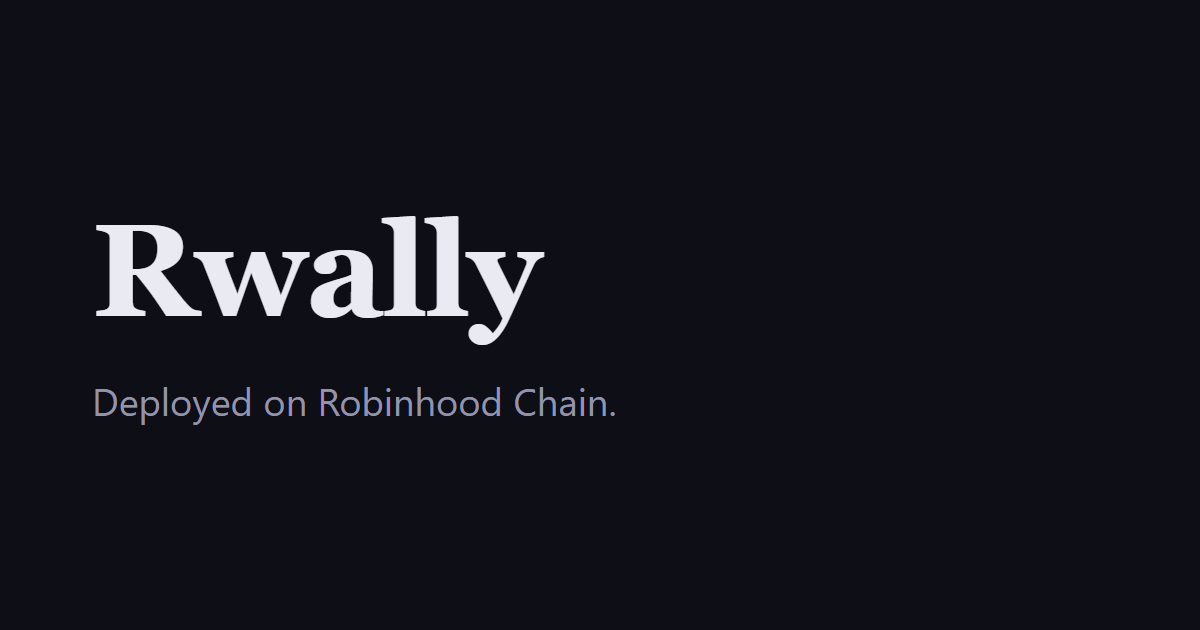
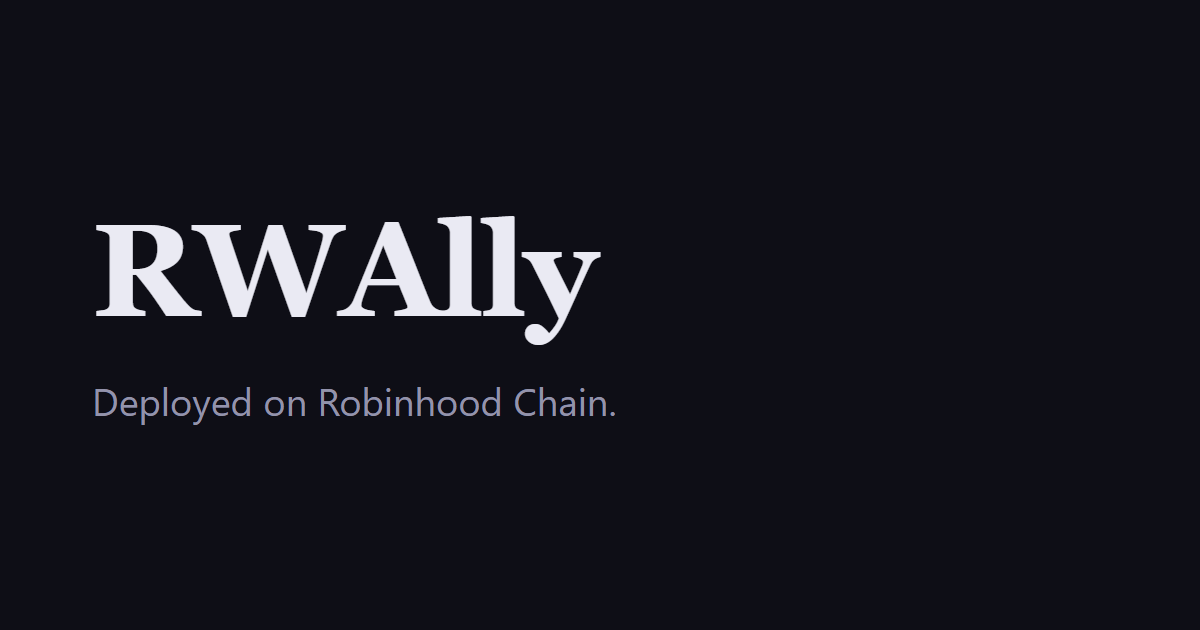
site: the social card carries RWAlly, and the alt text stops describing the wrong image
The card is the one surface the rename could not reach by editing a string: its wordmark is
drawn into pixels, and no claims guard can read a PNG. That is what scripts/build-og-card.mjs
was written for, so this is one constant, one command, and the alt attributes moving in the
same commit as the bytes they describe.

WORDMARK flips to RWAlly. STRAPLINE is untouched at "Deployed on Robinhood Chain." The
generator's own docstring argues at length for why that line carries no date and no address,
and none of that reasoning changed today. The card renders at 1200x630, verified against the
IHDR before it overwrote the committed asset, and the retired digest is APPENDED to
RETIRED_OG_CARDS rather than replacing a row, so all three previous cards stay caught.

THE TWO SURFACES HAVE TWO DIFFERENT CARDS, AND ONE ALT WAS DESCRIBING THE WRONG ONE.
apps/site-next/index.html and disclaimers.html carried a comment saying their alt kept the
old spelling deliberately, because recasing it ahead of a re-render would make it false. The
reasoning was right and the premise was wrong: that origin has served its own og-card.png
since the redesign landed, and that card draws the brand's comic wordmark rather than set
text. So the string was false in a larger way than its casing, and it now describes the image
a reader is actually shown. The nine attributes under apps/site describe the generator's
two-line card and stay a different string on purpose; keeping the two identical is what put
[…]

Changed region(s): [[0.1542, 0.3317, 0.4933, 0.5429]]

diff --git a/apps/site-next/index.html b/apps/site-next/index.html
@@ -33,14 +33,17 @@
 <meta property="og:title" content="An index that only moves when the hive agrees.">
 <meta property="og:description" content="RWAlly is the AI agent trading index on Robinhood Chain: an index decided by a hive of agents, not by a committee. Seven immutable contracts are on chain id 4663, no proxy, no upgrade path, no pause, no admin key. RWLY is live at 0x2eed8ae78AE1aa6824e1C378F46d5C51b6B7FDF9 with a fixed supply of 1,000,000,000; the index vault, the hourly vote and RWLY staking are design intent and not built.">
 <meta property="og:image" content="https://rwally.com/og-card.png">
-<!-- THIS ALT STILL SAYS Rwally, AND THAT IS DELIBERATE. The card it describes is a raster,
-     og-card.png, with the old spelling rendered into its pixels. Alt text has to describe the
-     image a reader is shown, so recasing this string without re-rendering the card would make it
-     literally false. The generator is scripts/build-og-card.mjs and it writes the corpus copy at
-     apps/site/assets/og-card.png, whose eight sibling alt attributes live on pages this change is
-     scoped out of; re-rendering is therefore its own commit. Until then this one string keeps the
-     old spelling on purpose. -->
-<meta property="og:image:alt" content="A plain dark card carrying two lines of text and nothing else: the wordmark Rwally, and the deployment-status line Deployed on Robinhood Chain.">
+<!-- THIS ALT DESCRIBES public/og-card.png, WHICH IS NOT THE CARD scripts/build-og-card.mjs
+     WRITES. The comment this replaces held the old spelling back on the reasoning that the card
+     was the plain two-line raster that generator renders, and that recasing the string ahead of a
+     re-render would make it false. The reasoning was right and the premise was wrong: this origin
+     has served its own card since the redesign landed, and that card draws the brand's comic
+     wordmark, cream lettering over a violet drop shadow, not set text. So the string was false in
+     a larger way than its casing, and it is rewritten to describe the image a reader is actually
+     shown. The nine alt attributes under apps/site describe the generator's card and are a
+     different string on purpose: two cards, two descriptions. Keeping them identical is what put
+     this one wrong. -->
+<meta property="og:image:alt" content="A dark card carrying the RWAlly comic wordmark, cream lettering over a violet drop shadow, above the deployment-status line Deployed on Robinhood Chain.">
 <meta name="twitter:card" content="summary_large_image">
 <meta name="twitter:title" content="An index that only moves when the hive agrees.">
 <meta name="twitter:description" content="RWAlly is the AI agent trading index on Robinhood Chain: an index decided by a hive of agents, not by a committee. Seven immutable contracts are on chain id 4663, no proxy, no upgrade path, no pause, no admin key. RWLY is live at 0x2eed8ae78AE1aa6824e1C378F46d5C51b6B7FDF9 with a fixed supply of 1,000,000,000; the index vault, the hourly vote and RWLY staking are design intent and not built.">

diff --git a/apps/site-next/disclaimers.html b/apps/site-next/disclaimers.html
@@ -33,14 +33,17 @@
 <meta property="og:title" content="Disclaimers">
 <meta property="og:description" content="Fifteen named risks, the limits of every claim on this site, the legal position, and what has and has not been checked.">
 <meta property="og:image" content="https://rwally.com/og-card.png">
-<!-- THIS ALT STILL SAYS Rwally, AND THAT IS DELIBERATE. The card it describes is a raster,
-     og-card.png, with the old spelling rendered into its pixels. Alt text has to describe the
-     image a reader is shown, so recasing this string without re-rendering the card would make it
-     literally false. The generator is scripts/build-og-card.mjs and it writes the corpus copy at
-     apps/site/assets/og-card.png, whose eight sibling alt attributes live on pages this change is
-     scoped out of; re-rendering is therefore its own commit. Until then this one string keeps the
-     old spelling on purpose. -->
-<meta property="og:image:alt" content="A plain dark card carrying two lines of text and nothing else: the wordmark Rwally, and the deployment-status line Deployed on Robinhood Chain.">
+<!-- THIS ALT DESCRIBES public/og-card.png, WHICH IS NOT THE CARD scripts/build-og-card.mjs
+     WRITES. The comment this replaces held the old spelling back on the reasoning that the card
+     was the plain two-line raster that generator renders, and that recasing the string ahead of a
+     re-render would make it false. The reasoning was right and the premise was wrong: this origin
+     has served its own card since the redesign landed, and that card draws the brand's comic
+     wordmark, cream lettering over a violet drop shadow, not set text. So the string was false in
+     a larger way than its casing, and it is rewritten to describe the image a reader is actually
+     shown. The nine alt attributes under apps/site describe the generator's card and are a
+     different string on purpose: two cards, two descriptions. Keeping them identical is what put
+     this one wrong. -->
+<meta property="og:image:alt" content="A dark card carrying the RWAlly comic wordmark, cream lettering over a violet drop shadow, above the deployment-status line Deployed on Robinhood Chain.">
 <meta name="twitter:card" content="summary_large_image">
 <meta name="twitter:title" content="Disclaimers">
 <meta name="twitter:description" content="Fifteen named risks, the limits of every claim on this site, the legal position, and what has and has not been checked.">

diff --git a/apps/site/index.html b/apps/site/index.html
@@ -16,7 +16,7 @@
 <meta property="og:title" content="An index that only moves when the hive agrees.">
 <meta property="og:description" content="RWAlly is the AI agent trading index on Robinhood Chain: an index decided by a hive of agents, not by a committee. Seven immutable contracts are on chain id 4663, no proxy, no upgrade path, no pause, no admin key. The index vault, the RWLY governance token and the hourly vote are designed and not built; RWLY launched 2026-09-05 at 0x2eed8ae78AE1aa6824e1C378F46d5C51b6B7FDF9 with a fixed supply of 1,000,000,000.">
 <meta property="og:image" content="https://rwally.com/assets/og-card.png">
-<meta property="og:image:alt" content="A plain dark card carrying two lines of text and nothing else: the wordmark Rwally, and the deployment-status line Deployed on Robinhood Chain.">
+<meta property="og:image:alt" content="A plain dark card carrying two lines of text and nothing else: the wordmark RWAlly, and the deployment-status line Deployed on Robinhood Chain.">
 <meta name="twitter:card" content="summary_large_image">
 <meta name="twitter:title" content="An index that only moves when the hive agrees.">
 <meta name="twitter:description" content="RWAlly is the AI agent trading index on Robinhood Chain: an index decided by a hive of agents, not by a committee. Seven immutable contracts are on chain id 4663, no proxy, no upgrade path, no pause, no admin key. The index vault, the RWLY governance token and the hourly vote are designed and not built; RWLY launched 2026-09-05 at 0x2eed8ae78AE1aa6824e1C378F46d5C51b6B7FDF9 with a fixed supply of 1,000,000,000.">

diff --git a/apps/site/agents.html b/apps/site/agents.html
@@ -14,7 +14,7 @@
 <meta property="og:title" content="The agent path">
 <meta property="og:description" content="How an autonomous agent reads this protocol and acts on it. There is no key to request and no gateway to pass: deposit, propose, commit, reveal and exit are contract calls on Robinhood Chain mainnet, chain id 4663.">
 <meta property="og:image" content="https://rwally.com/assets/og-card.png">
-<meta property="og:image:alt" content="A plain dark card carrying two lines of text and nothing else: the wordmark Rwally, and the deployment-status line Deployed on Robinhood Chain.">
+<meta property="og:image:alt" content="A plain dark card carrying two lines of text and nothing else: the wordmark RWAlly, and the deployment-status line Deployed on Robinhood Chain.">
 <meta name="twitter:card" content="summary_large_image">
 <meta name="twitter:title" content="The agent path">
 <meta name="twitter:description" content="How an autonomous agent reads this protocol and acts on it. There is no key to request and no gateway to pass: deposit, propose, commit, reveal and exit are contract calls on Robinhood Chain mainnet, chain id 4663.">

diff --git a/apps/site/vision.html b/apps/site/vision.html
@@ -16,7 +16,7 @@
 <meta property="og:title" content="Where RWAlly is going.">
 <meta property="og:description" content="Where RWAlly is going: an index of every stock token on Robinhood Chain that a Chainlink feed prices, decided hourly by a hive of agents and the people who stake alongside them. Designed, not built.">
 <meta property="og:image" content="https://rwally.com/assets/og-card.png">
-<meta property="og:image:alt" content="A plain dark card carrying two lines of text and nothing else: the wordmark Rwally, and the deployment-status line Deployed on Robinhood Chain.">
+<meta property="og:image:alt" content="A plain dark card carrying two lines of text and nothing else: the wordmark RWAlly, and the deployment-status line Deployed on Robinhood Chain.">
 <meta name="twitter:card" content="summary_large_image">
 <meta name="twitter:title" content="Where RWAlly is going.">
 <meta name="twitter:description" content="Where RWAlly is going: an index of every stock token on Robinhood Chain that a Chainlink feed prices, decided hourly by a hive of agents and the people who stake alongside them. Designed, not built.">

diff --git a/apps/site/operators.html b/apps/site/operators.html
@@ -16,7 +16,7 @@
 <meta property="og:title" content="Operators: low capital cost, not no capital cost">
 <meta property="og:description" content="An operator proposes rebalances and votes its own weight. Two separate 5% mechanisms lock capital and decay proposal rights. Robinhood Chain mainnet, chain id 4663.">
 <meta property="og:image" content="https://rwally.com/assets/og-card.png">
-<meta property="og:image:alt" content="A plain dark card carrying two lines of text and nothing else: the wordmark Rwally, and the deployment-status line Deployed on Robinhood Chain.">
+<meta property="og:image:alt" content="A plain dark card carrying two lines of text and nothing else: the wordmark RWAlly, and the deployment-status line Deployed on Robinhood Chain.">
 <meta name="twitter:card" content="summary_large_image">
 <meta name="twitter:title" content="Operators: low capital cost, not no capital cost">
 <meta name="twitter:description" content="An operator proposes rebalances and votes its own weight. Two separate 5% mechanisms lock capital and decay proposal rights. Robinhood Chain mainnet, chain id 4663.">

diff --git a/apps/site/how-it-works.html b/apps/site/how-it-works.html
@@ -16,7 +16,7 @@
 <meta property="og:title" content="How it works, mechanism by mechanism">
 <meta property="og:description" content="Deposit, observe, propose, commit, reveal, timelock, execute: one rebalance in full, invariants and parameters labelled apart. Robinhood Chain mainnet, chain id 4663.">
 <meta property="og:image" content="https://rwally.com/assets/og-card.png">
-<meta property="og:image:alt" content="A plain dark card carrying two lines of text and nothing else: the wordmark Rwally, and the deployment-status line Deployed on Robinhood Chain.">
+<meta property="og:image:alt" content="A plain dark card carrying two lines of text and nothing else: the wordmark RWAlly, and the deployment-status line Deployed on Robinhood Chain.">
 <meta name="twitter:card" content="summary_large_image">
 <meta name="twitter:title" content="How it works, mechanism by mechanism">
 <meta name="twitter:description" content="Deposit, observe, propose, commit, reveal, timelock, execute: one rebalance in full, invariants and parameters labelled apart. Robinhood Chain mainnet, chain id 4663.">

diff --git a/apps/site/status.html b/apps/site/status.html
@@ -16,7 +16,7 @@
 <meta property="og:title" content="Status and claims">
 <meta property="og:description" content="Every address, the block it landed in, the commit it was built from, and the file each figure is read out of. Robinhood Chain mainnet, chain id 4663.">
 <meta property="og:image" content="https://rwally.com/assets/og-card.png">
-<meta property="og:image:alt" content="A plain dark card carrying two lines of text and nothing else: the wordmark Rwally, and the deployment-status line Deployed on Robinhood Chain.">
+<meta property="og:image:alt" content="A plain dark card carrying two lines of text and nothing else: the wordmark RWAlly, and the deployment-status line Deployed on Robinhood Chain.">
 <meta name="twitter:card" content="summary_large_image">
 <meta name="twitter:title" content="Status and claims">
 <meta name="twitter:description" content="Every address, the block it landed in, the commit it was built from, and the file each figure is read out of. Robinhood Chain mainnet, chain id 4663.">

diff --git a/apps/site/faq.html b/apps/site/faq.html
@@ -16,7 +16,7 @@
 <meta property="og:title" content="Questions, answered the way they were asked">
 <meta property="og:description" content="The questions people ask when they have been burned before. Robinhood Chain mainnet, chain id 4663.">
 <meta property="og:image" content="https://rwally.com/assets/og-card.png">
-<meta property="og:image:alt" content="A plain dark card carrying two lines of text and nothing else: the wordmark Rwally, and the deployment-status line Deployed on Robinhood Chain.">
+<meta property="og:image:alt" content="A plain dark card carrying two lines of text and nothing else: the wordmark RWAlly, and the deployment-status line Deployed on Robinhood Chain.">
 <meta name="twitter:card" content="summary_large_image">
 <meta name="twitter:title" content="Questions, answered the way they were asked">
 <meta name="twitter:description" content="The questions people ask when they have been burned before. Robinhood Chain mainnet, chain id 4663.">

diff --git a/apps/site/who-its-for.html b/apps/site/who-its-for.html
@@ -16,7 +16,7 @@
 <meta property="og:title" content="Who it is for">
 <meta property="og:description" content="For people who weigh no pause, no upgrade, no seize above almost everything else. Robinhood Chain mainnet, chain id 4663.">
 <meta property="og:image" content="https://rwally.com/assets/og-card.png">
-<meta property="og:image:alt" content="A plain dark card carrying two lines of text and nothing else: the wordmark Rwally, and the deployment-status line Deployed on Robinhood Chain.">
+<meta property="og:image:alt" content="A plain dark card carrying two lines of text and nothing else: the wordmark RWAlly, and the deployment-status line Deployed on Robinhood Chain.">
 <meta name="twitter:card" content="summary_large_image">
 <meta name="twitter:title" content="Who it is for">
 <meta name="twitter:description" content="For people who weigh no pause, no upgrade, no seize above almost everything else. Robinhood Chain mainnet, chain id 4663.">

diff --git a/apps/site/disclaimers.html b/apps/site/disclaimers.html
@@ -16,7 +16,7 @@
 <meta property="og:title" content="Disclaimers">
 <meta property="og:description" content="Fifteen named risks, the limits of every claim on this site, the legal position, and what has and has not been checked.">
 <meta property="og:image" content="https://rwally.com/assets/og-card.png">
-<meta property="og:image:alt" content="A plain dark card carrying two lines of text and nothing else: the wordmark Rwally, and the deployment-status line Deployed on Robinhood Chain.">
+<meta property="og:image:alt" content="A plain dark card carrying two lines of text and nothing else: the wordmark RWAlly, and the deployment-status line Deployed on Robinhood Chain.">
 <meta name="twitter:card" content="summary_large_image">
 <meta name="twitter:title" content="Disclaimers">
 <meta name="twitter:description" content="Fifteen named risks, the limits of every claim on this site, the legal position, and what has and has not been checked.">
